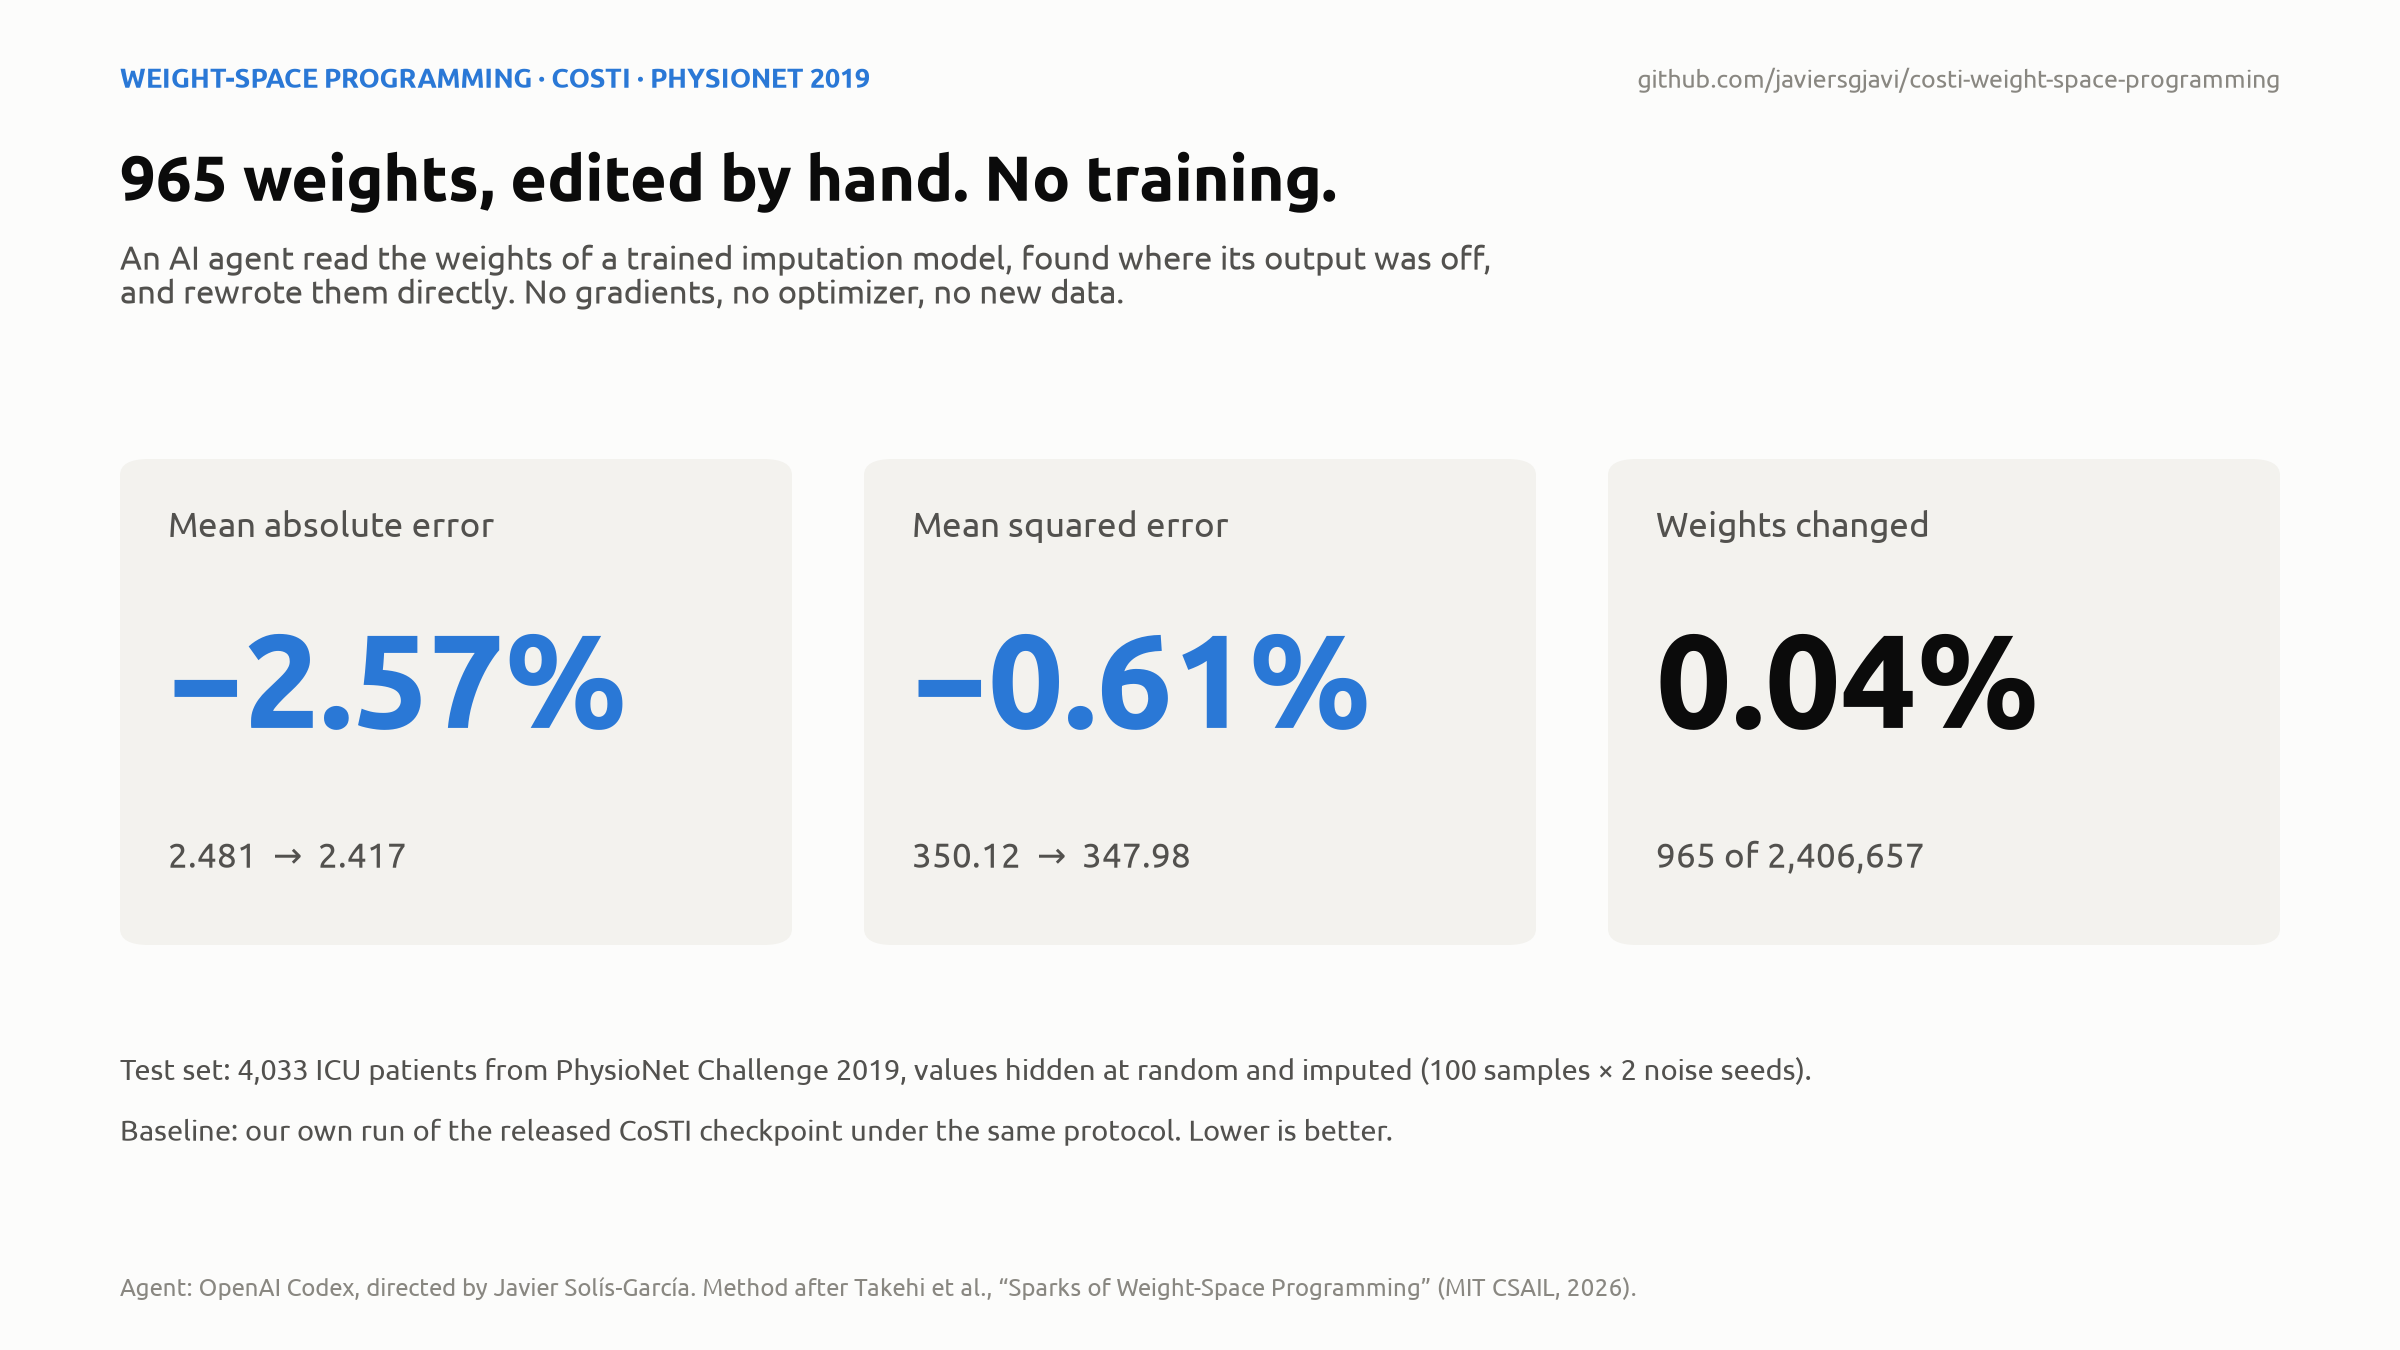
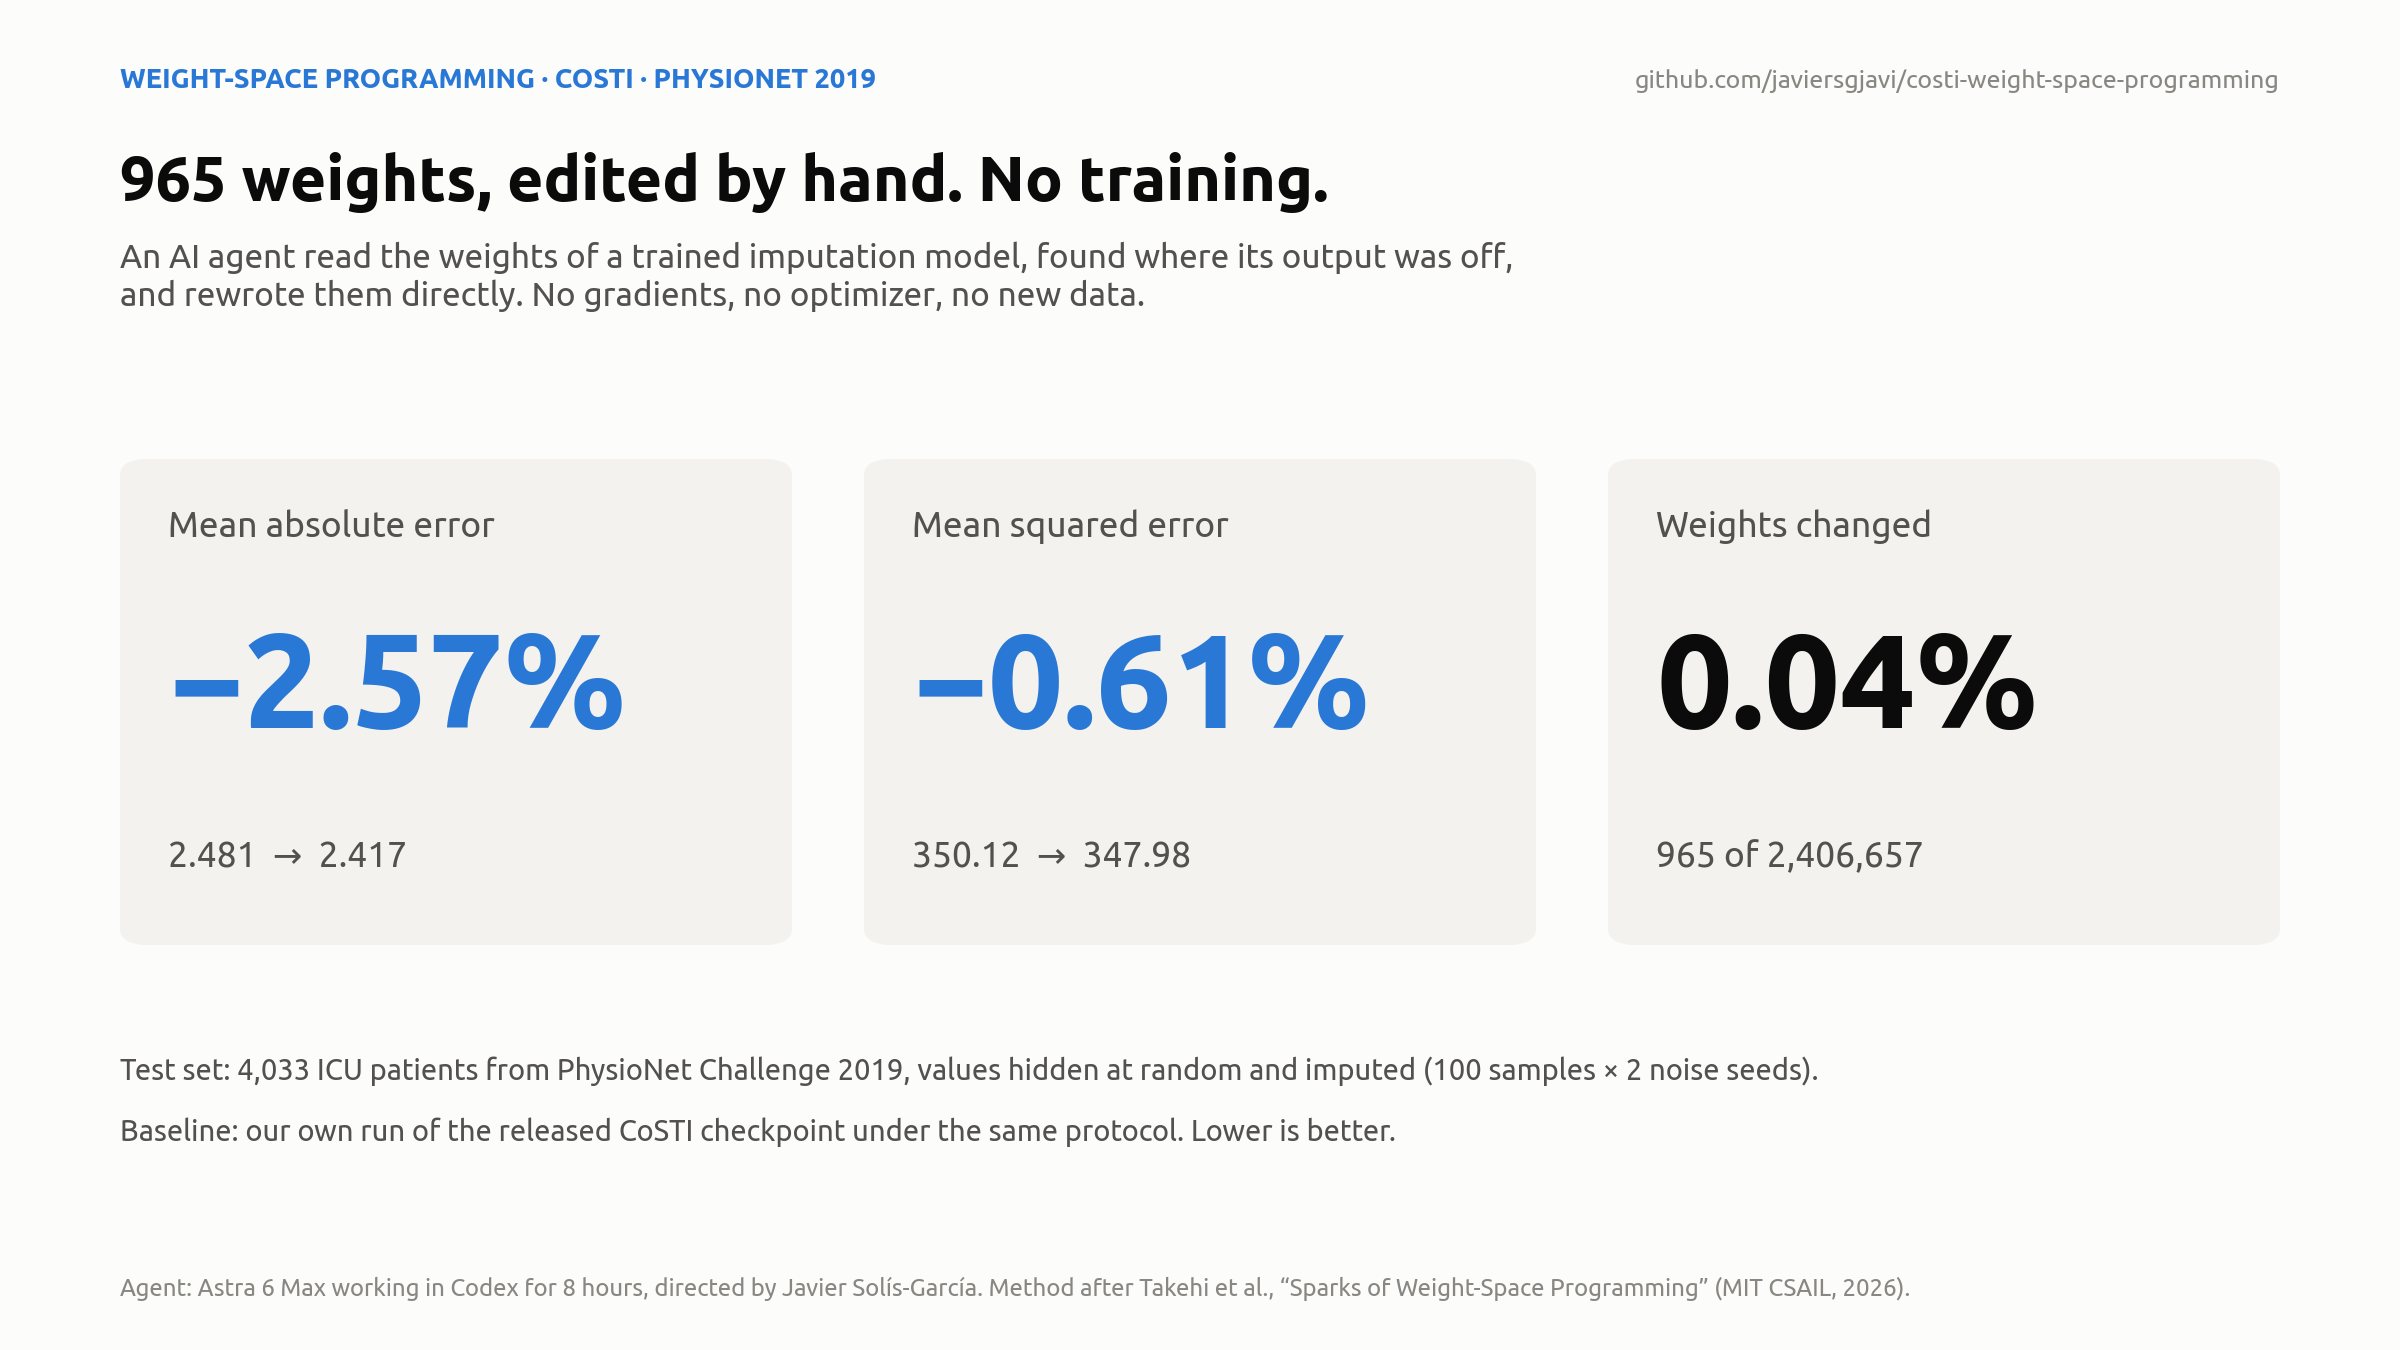
Name the agent model and session length in the headline figure

diff --git a/scripts/make_figures.py b/scripts/make_figures.py
@@ -143,7 +143,8 @@ def fig_headline():
     fig.text(0.05, 0.155,
              "Baseline: our own run of the released CoSTI checkpoint under the same protocol. Lower is better.",
              fontsize=14, color=INK_2)
-    footer(fig, "Agent: OpenAI Codex, directed by Javier Solís-García. Method after Takehi et al., "
+    footer(fig, "Agent: Astra 6 Max working in Codex for 8 hours, directed by Javier Solís-García. "
+                "Method after Takehi et al., "
                 "“Sparks of Weight-Space Programming” (MIT CSAIL, 2026).")
     save(fig, "01_headline.png")
 
